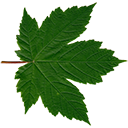
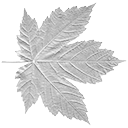
.

diff --git a/script.js b/script.js
@@ -11,25 +11,22 @@ function init()
 	renderer = new THREE.WebGLRenderer();
 	renderer.setSize(window.innerWidth,window.innerHeight);
 	document.getElementById("canvas").appendChild(renderer.domElement);
-
-	//var line = new THREE.Line(createTree(),new THREE.LineBasicMaterial({color: 0x99ff33}),THREE.LinePieces);
-	//scene.add( line );
 	
-	var light = new THREE.DirectionalLight( 0xffffff, 1);
+	var light = new THREE.DirectionalLight( 0xfffff0, 1);
 	light.position.set(1,1,1);
 	scene.add(light);
 	
-	var ambientLight = new THREE.AmbientLight(0x404040);
+	var ambientLight = new THREE.AmbientLight(0x505050);
 	scene.add(ambientLight);
 	
 	t = new Tree();
-	t.createCloud(new THREE.Vector3(-0.7,1.2,0),new THREE.Vector3(3,1,3),5000);
+	t.createCloud(new THREE.Vector3(-0.8,1.3,0),new THREE.Vector3(3,1,3),1000);
 	t.generateStem(1);
 	
 	gi = setInterval(grow,10);
 	
-	camera.position.z = 3;
-	camera.position.y = 0.8;
+	camera.position.z = 2.5;
+	camera.position.y = 1;
 	render();
 }
 
@@ -261,7 +258,16 @@ function Tree()
 	this.buildLeaves = function()
 	{
 		var geometry = new THREE.Geometry();
-		var mat = new THREE.MeshLambertMaterial( {color: 0xffaaaa, map: THREE.ImageUtils.loadTexture("images/leafmask.png"), alphaMap: THREE.ImageUtils.loadTexture("images/leafmask.png"),transparent: true, side: THREE.DoubleSide});
+		
+		var mat = new THREE.MeshLambertMaterial( {
+			color: 0xffaaaa,
+			map: THREE.ImageUtils.loadTexture("images/leaf.png"),
+			alphaMap: THREE.ImageUtils.loadTexture("images/leafmask.png"),
+			transparent: true,
+			side: THREE.DoubleSide,
+			alphaTest: 0.6
+		});
+		
 		for (var i = 0; i < this.branches.length; i++)
 		{
 			var b = this.branches[i];
@@ -271,7 +277,7 @@ function Tree()
 				var c = Math.random()*20;
 				for (var j = 0; j < c; j++)
 				{
-					var g = new THREE.PlaneGeometry(0.1,0.05);
+					var g = new THREE.PlaneGeometry(0.1,0.1);
 					g.applyMatrix(new THREE.Matrix4().makeTranslation(0.1,0,0));
 					g.applyMatrix(new THREE.Matrix4().makeRotationX( Math.random()*Math.PI*2));
 					g.applyMatrix(new THREE.Matrix4().makeRotationY( Math.random()*Math.PI*2));
@@ -297,47 +303,6 @@ Tree.Segment = function(pos,parent){
 	this.growDirection = new THREE.Vector3(0,0,0);
 };
 
-/*
-function createTree()
-{
-	var geometry = new THREE.Geometry();
-	var vertices = [];
-	var tilt = 0;
-	var q = new THREE.Quaternion();
-	var last = new THREE.Vector3(0,0,0);
-	
-	createBranch(geometry,last,tilt,0.1,10);
-	
-	
-	return geometry;
-}
-
-function createBranch(geometry,start,tilt,potency,count)
-{
-	var q = new THREE.Quaternion();
-	tilt += (Math.random()-0.5)*0.6;
-	q.setFromAxisAngle(new THREE.Vector3(0,0,1),tilt);
-	var vector = new THREE.Vector3(0,0.5,0);
-	vector.applyQuaternion(q);
-	geometry.vertices.push(start);
-	vector.add(start);
-	geometry.vertices.push(vector);
-	
-	//geometry.vertices.push(start+vector);
-	
-	if (count > 0 && Math.random()*10-count > potency)
-	{
-		var te = Math.PI/4;
-		if (Math.random()>.5) {te = -te;}
-		createBranch(geometry,vector,tilt+te,potency*0.5,count-1);
-	}
-	
-	if (count>0)
-	{
-		createBranch(geometry,vector,tilt,potency*0.5,count-1);
-	}
-}
-*/
 document.onreadystatechange = function () {
   if (document.readyState == "complete") {
     init();

diff --git a/index.html b/index.html
@@ -12,10 +12,85 @@
                 margin: 0px;
                 padding: 0px;
 				overflow: hidden;
+				perspective: 1920px;
             }
+			
+			#canvas
+			{
+				height: 100%;
+				width: 100%;
+				margin: 0px;
+				padding: 0px;
+				background: red;
+				position: absolute;
+				left: 0px;
+				top: 0px;
+				z-index: 0;
+			}
+			
+			#canvas canvas
+			{
+				position: absolute;
+				left: 0px;
+				top: 0px;
+				z-index: 0;
+			}
+			
+			#settings
+			{
+				color: white;
+				font-family: sans-serif;
+				
+				border-right: 1px solid gray;
+				
+				z-index: 3;
+				position: absolute;
+				left: 0px;
+				top: 0px;
+				height: 100%;
+				width: 400px;
+				background: rgba(0,0,0,0.7);
+				opacity: 0;
+				visibility: hidden;
+				
+				transform: rotateY(90deg);
+				transform-origin: 0% 0%;
+				transition: transform 0.6s, visibility 0.6s, opacity 0.3s;
+				
+			}
+			
+			#settings:hover
+			{
+				transform: rotateY(0deg);
+				visibility: visible;
+				opacity: 1;
+			}
+			#settingshover:hover + #settings
+			{
+				transform: rotateY(0deg);
+				visibility: visible;
+				opacity: 1;
+			}
+			#settingshover:hover
+			{
+				width: 400px;
+			}
+			
+			#settingshover
+			{
+				width: 50px;
+				height: 100%;
+				position: absolute;
+				top: 0px;
+				lefT: 0px;
+				z-index: 2;
+			}
+			
         </style>
     </head>
     <body>
-        <div id="canvas" style="height: 100%; width: 100%; margin: 0px; padding: 0px; background: red;"/>
+		<div id="settingshover"> </div>
+		<div id="settings">	asdasd</div>
+        <div id="canvas"> </div>
     </body>
 </html>
